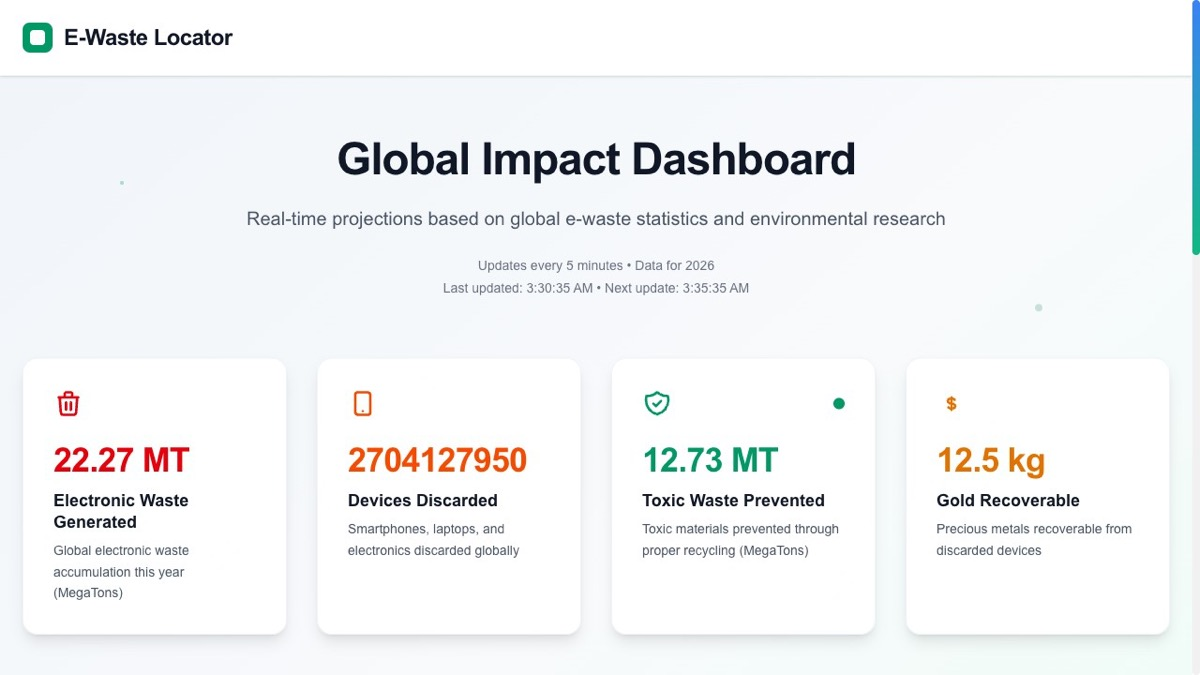
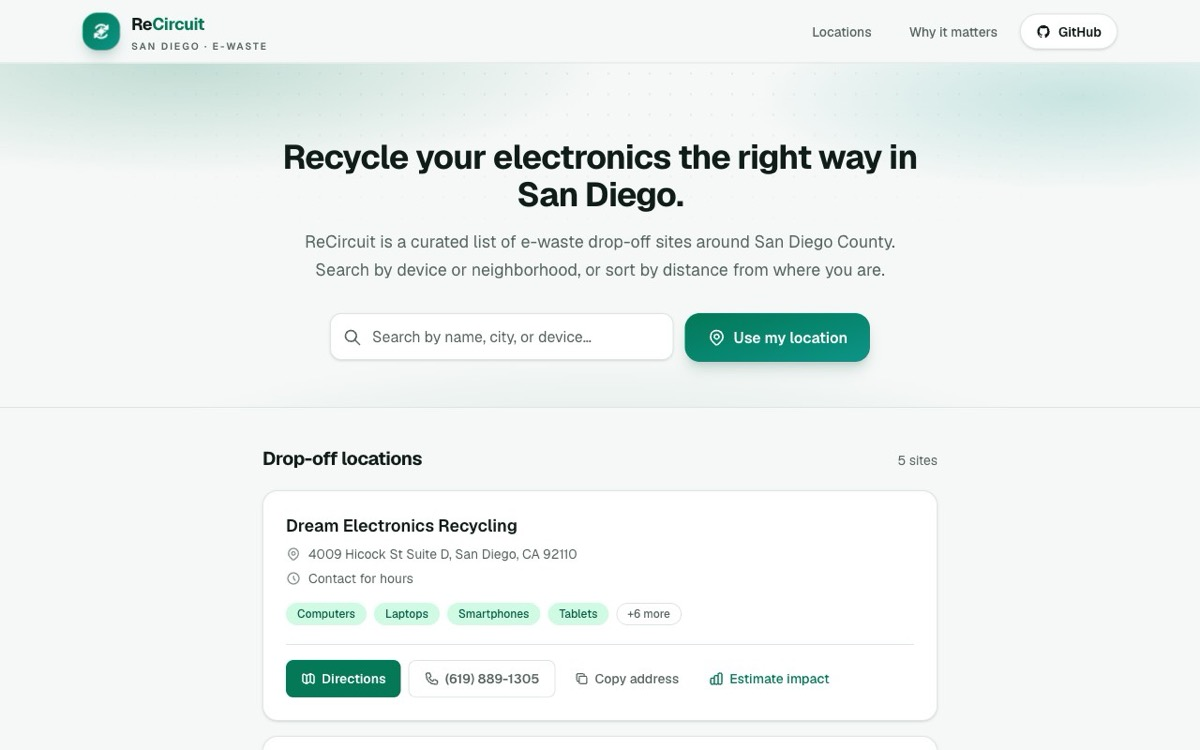
Rebrand redesigned school projects with fresh screenshots
VESPO, CycleFlow (was Bike Trax), ReCircuit (was E-Waste Locator),
Colombia Equity Atlas (was Colombia Vulnerability Map), Fact & Figure
(was Financial Myths Analysis), and BioNexus get sharper descriptions
reflecting their redesigns, plus thumbnails of the new live sites.

diff --git a/src/data/portfolio.ts b/src/data/portfolio.ts
@@ -27,7 +27,7 @@ export const portfolio: PortfolioData = {
       github: "https://github.com/ShaheerAlamKhan/VESPO",
       image: "/images/projects/vespo.jpg",
       description:
-        "Visual Exploration of Surgical Procedures & Outcomes — interactive analysis of surgical data from a Korean hospital.",
+        "Surgical outcomes intelligence: an interactive D3 explorer over 6,400 live surgical cases (VitalDB) — beeswarm, sunburst, and risk-factor views with a full clinical design system.",
     },
     {
       title: "Longevity",
@@ -55,14 +55,14 @@ export const portfolio: PortfolioData = {
         "UCSD capstone predicting motor-imagery BCI literacy from EEG features — an end-to-end MNE and scikit-learn pipeline with an interactive demo API.",
     },
     {
-      title: "E-Waste Locator",
+      title: "ReCircuit",
       tech: ["Next.js", "TypeScript", "Tailwind CSS"],
       year: "2025",
       live: "https://shaheeralamkhan.github.io/waste-disposal/",
       github: "https://github.com/ShaheerAlamKhan/waste-disposal",
       image: "/images/projects/ewaste.jpg",
       description:
-        "Web app helping San Diego residents find electronic-waste drop-off locations.",
+        "Civic-tech recycling finder for San Diego e-waste — geolocation-sorted drop-off sites with live search, accepted-item filters, and an environmental impact estimator.",
     },
     {
       title: "Project DIANA",
@@ -73,14 +73,14 @@ export const portfolio: PortfolioData = {
         "Drone system detecting nitrogen pollution and volatile organic compounds with geolocated mapping — 1st place at IEEE EPICS Las Vegas with $10,000 in funding.",
     },
     {
-      title: "Bike Trax",
+      title: "CycleFlow",
       tech: ["JavaScript", "Data Visualization", "Maps"],
       year: "2025",
       live: "https://shaheeralamkhan.github.io/BikeAnalysis/",
       github: "https://github.com/ShaheerAlamKhan/BikeAnalysis",
-      image: "/images/projects/biketrax.jpg",
+      image: "/images/projects/cycleflow.jpg",
       description:
-        "Immersive interactive map of Boston bike traffic across different times of day.",
+        "Boston's bike traffic, hour by hour — a Mapbox + D3 flow map of 260K+ BlueBikes trips with a day-gradient time scrubber and dual light/dark basemaps.",
     },
     {
       title: "QuickCruit.Ai",
@@ -90,14 +90,14 @@ export const portfolio: PortfolioData = {
         "AI recruiting platform — built LLM-powered resume analysis and recommendation features and improved accessibility scores by 27%.",
     },
     {
-      title: "Colombia Vulnerability Map",
+      title: "Colombia Equity Atlas",
       tech: ["JavaScript", "D3.js", "Data Visualization"],
       year: "2025",
       live: "https://shaheeralamkhan.github.io/ColumbiaAnalysis/",
       github: "https://github.com/ShaheerAlamKhan/ColumbiaAnalysis",
-      image: "/images/projects/colombia.jpg",
+      image: "/images/projects/colombia-atlas.jpg",
       description:
-        "Interactive map visualizing socioeconomic vulnerability across Colombia's regions.",
+        "Data-journalism atlas mapping socioeconomic vulnerability across 1,100+ Colombian municipalities, 2007–2019, with an animated choropleth and regional driver analysis.",
     },
     {
       title: "BioNexus",
@@ -105,7 +105,7 @@ export const portfolio: PortfolioData = {
       year: "2025",
       github: "https://github.com/ShaheerAlamKhan/BioNexus",
       description:
-        "Smart API-integration hub linking biological databases through BioThings Explorer, with cross-database identifier mapping and data-quality pipelines.",
+        "Biomedical knowledge-graph API and explorer — unifies queries across biological databases via BioThings Explorer with cross-database ID mapping, a React dashboard, and Dockerized services.",
     },
     {
       title: "Session AI",
@@ -115,14 +115,14 @@ export const portfolio: PortfolioData = {
         "AI-facilitated networking tool matching event attendees using profile embeddings and smart-device location data.",
     },
     {
-      title: "Financial Myths Analysis",
-      tech: ["Python", "Jupyter", "Data Visualization"],
+      title: "Fact & Figure",
+      tech: ["JavaScript", "Plotly", "D3.js", "Data Visualization"],
       year: "2025",
       live: "https://shaheeralamkhan.github.io/FinanceMyths/",
       github: "https://github.com/ShaheerAlamKhan/FinanceMyths",
       image: "/images/projects/financemyths.jpg",
       description:
-        "Data-driven investigation of common personal-finance myths using exploratory analysis and interactive visuals.",
+        "Editorial data story debunking four money myths with interactive Plotly and D3 graphics — myth vs. verdict framing over SWIID and market data.",
     },
     {
       title: "Data Structures Tutoring Platform",
